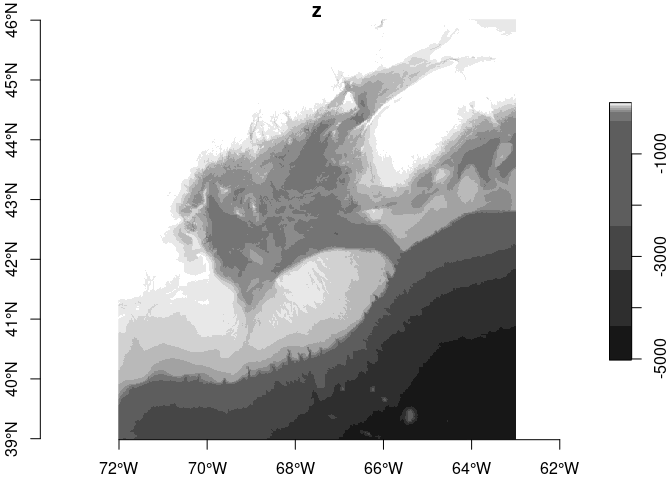
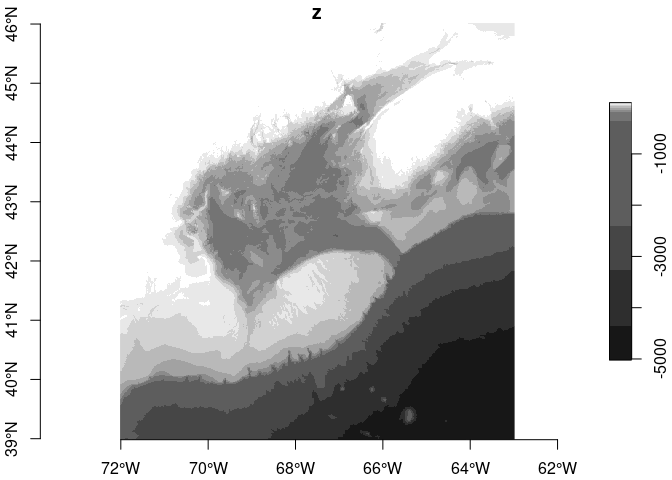
add resize() function, make into a project

diff --git a/README.md b/README.md
@@ -16,15 +16,15 @@ data](https://www.gebco.net/data_and_products/gridded_bathymetry_data/#global).
 
 ## Requirements
 
--   [terra](https://CRAN.R-project.org/package=terra)
+- [terra](https://CRAN.R-project.org/package=terra)
 
--   [stars](https://CRAN.R-project.org/package=stars)
+- [stars](https://CRAN.R-project.org/package=stars)
 
--   [sf](https://CRAN.R-project.org/package=sf)
+- [sf](https://CRAN.R-project.org/package=sf)
 
--   [dplyr](https://CRAN.R-project.org/package=dplyr)
+- [dplyr](https://CRAN.R-project.org/package=dplyr)
 
--   [ncdf4](https://CRAN.R-project.org/package=ncdf4)
+- [ncdf4](https://CRAN.R-project.org/package=ncdf4)
 
 ## Installation
 
@@ -92,15 +92,15 @@ etopo
     ##         Min.   1st Qu.   Median      Mean  3rd Qu.     Max.
     ## z  -5021.792 -1730.825 -95.4375 -908.8038 38.10166 1653.262
     ## dimension(s):
-    ##   from  to   offset      delta refsys x/y
-    ## x    1 542 -72.0167  0.0166667 WGS 84 [x]
-    ## y    1 422  46.0167 -0.0166667 WGS 84 [y]
+    ##   from  to offset    delta refsys x/y
+    ## x    1 542 -72.02  0.01667 WGS 84 [x]
+    ## y    1 422  46.02 -0.01667 WGS 84 [y]
 
 ``` r
 (gebco_files = list_gebco())
 ```
 
-    ## [1] "GEBCO_2022.nc"
+    ## [1] "GEBCO_2024.nc"
 
 ``` r
 gebco <- read_gebco("GEBCO_2022.nc", bb = bb)
@@ -113,9 +113,9 @@ gebco
     ##    Min. 1st Qu. Median     Mean 3rd Qu. Max.
     ## z   -78      47    154 195.0478     326 1502
     ## dimension(s):
-    ##   from   to   offset       delta                     refsys x/y
-    ## x    1 2162 -72.0042  0.00416667 +proj=longlat +datum=WGS84 [x]
-    ## y    1 1682  46.0042 -0.00416667 +proj=longlat +datum=WGS84 [y]
+    ##   from   to offset     delta                     refsys x/y
+    ## x    1 2162    -72  0.004167 +proj=longlat +datum=WGS84 [x]
+    ## y    1 1682     46 -0.004167 +proj=longlat +datum=WGS84 [y]
 
 Note that the GEBCO data provides approximately 4x the resolution of the
 ETOPO1 data.
@@ -153,3 +153,38 @@ plot(masked_etopo, axes = TRUE)
 ```
 
 ![](README_files/figure-gfm/mask-1.png)<!-- -->
+
+### Resizing
+
+We know that these are big high resolution images which can really drag
+down resources - especially for graphics. We provide a simple way to
+resize a stars object. This step always generates a warning from `GDAL`
+but it seems that we can ignore the warning without worry.
+
+``` r
+smaller = resize(masked_etopo, m = 4)
+```
+
+    ## Warning in stars::st_warp(x, cellsize = d[1:2] * m, use_gdal = TRUE,
+    ## no_data_value = NA_real_, : no_data_value not set: missing values will appear
+    ## as zero values
+
+``` r
+dim(masked_etopo)
+```
+
+    ##   x   y 
+    ## 542 422
+
+``` r
+dim(smaller)
+```
+
+    ##   x   y 
+    ## 135 106
+
+``` r
+plot(smaller, axes = TRUE)
+```
+
+![](README_files/figure-gfm/resize-1.png)<!-- -->
